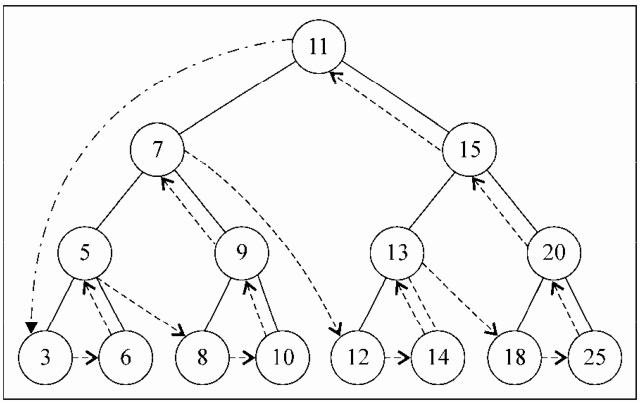
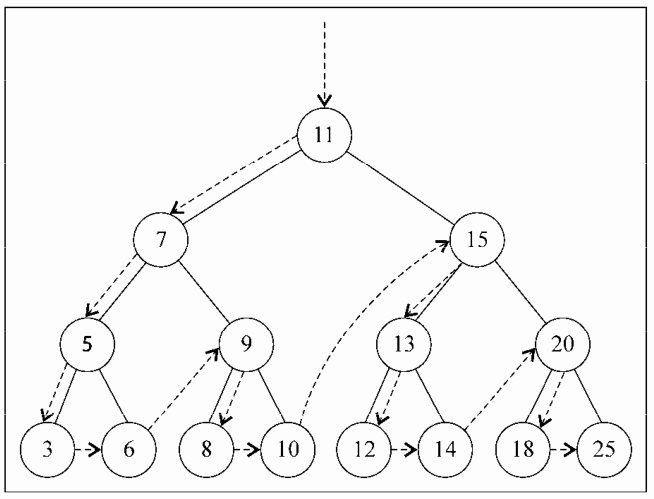
[+]搜索最小值和最大值

diff --git a/book/09、学习javascript数据结构与算法/README.md b/book/09、学习javascript数据结构与算法/README.md
@@ -905,7 +905,7 @@ tree.insert(6);
 ![8-05](./08章、树/img/8-05.png)               
 
 
-### <div id='class08-02'>8.3 树的遍历</div>                 
+### <div id='class08-03'>8.3 树的遍历</div>                 
 遍历一棵树是指访问树的每个节点并对它们进行某种操作的过程。但是我们应该怎么去做呢？
 应该从树的顶端还是底端开始呢？从左开始还是从右开始呢？访问树的所有节点有三种方式：**中序、先序和后序**。
 
@@ -1007,6 +1007,20 @@ class Tool {
 
 下面的图描绘了 postOrderTraverse 方法的访问路径：
 ![8-08](./08章、树/img/8-08.png)               
+
+
+### <div id='class08-04'>8.4 搜索树中的值</div>         
+在树中，有三种经常执行的搜索类型：               
+  最小值；             
+  最大值；             
+  搜索特定的值。                  
+
+
+**8.4.1 搜索最小值和最大值**                 
+我们使用下面的树作为示例：               
+![8-09](./08章、树/img/8-09.png)               
+看一眼树最后一层最左侧的节点，会发现它的值为3，这是这棵树中最小的键。如果你再看一眼树最右端的节点（同样是树的最后一层），
+会发现它的值为25，这是这棵树中最大的键。这条信息在我们实现搜索树节点的最小值和最大值的方法时能给予我们很大的帮助。                          
 
 
 
